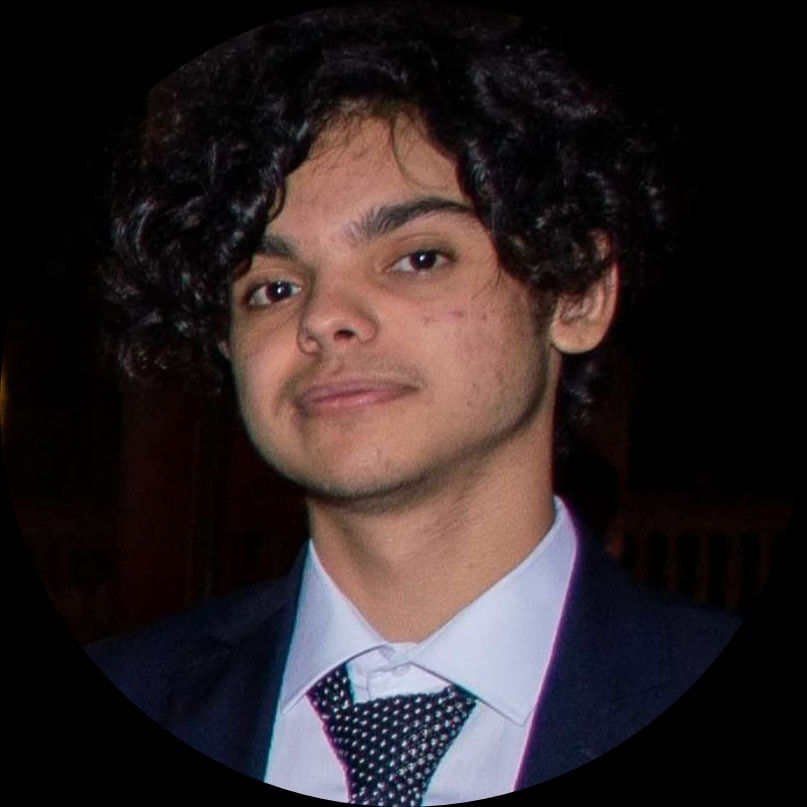
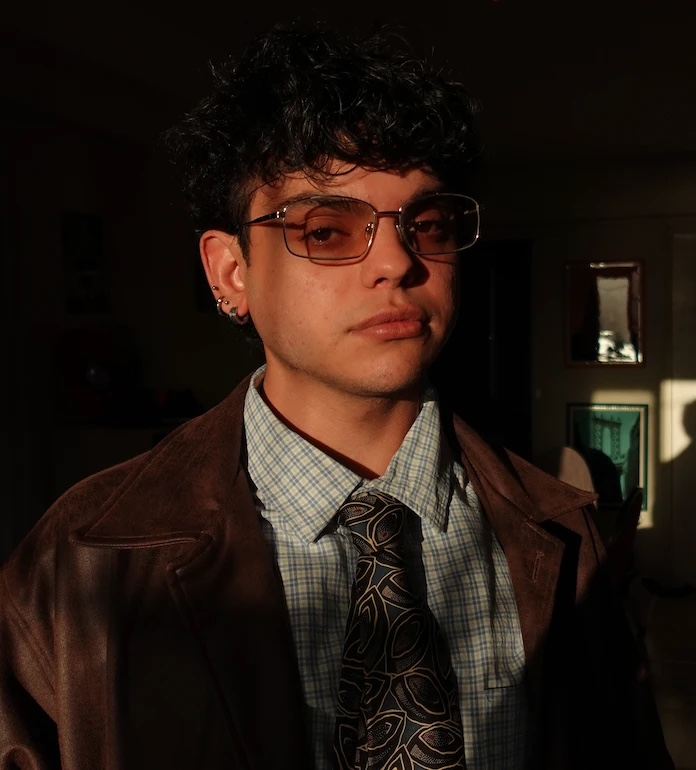
CV: foto nueva y filtro final de Petróleo

diff --git a/index.html b/index.html
@@ -60,7 +60,7 @@ main { padding:52px 0 0; min-width:0; }
 .idioma a:hover { background:var(--borde); }
 .yo { width:128px; height:128px; border-radius:50%; overflow:hidden; background:var(--tarjeta); margin-bottom:26px; transition:transform .4s cubic-bezier(.2,.8,.2,1); }
 .yo:hover { transform:rotate(-6deg) scale(1.04); }
-.yo img { width:100%; height:100%; object-fit:cover; display:block; }
+.yo img { width:100%; height:100%; object-fit:cover; object-position:50% 28%; display:block; }
 .nombre { font-family:var(--f-nombre); font-weight:var(--f-nombre-peso); text-transform:var(--f-nombre-caja); font-size:29px; line-height:1.08; letter-spacing:-.01em; }
 html[data-tipo="c"] .nombre { font-size:38px; line-height:1; }
 .rol-lat { margin-top:14px; font-size:15px; line-height:1.45; font-weight:500; }
@@ -137,7 +137,7 @@ a.t:hover, .t:hover { transform:translateY(-4px) rotate(-.5deg); box-shadow:0 22
 
 /* Bloque del avatar */
 .avatar { padding:0; background:radial-gradient(120% 90% at 20% 10%, var(--c3) 0%, var(--c5) 60%, var(--barra) 100%); min-height:366px; }
-.avatar .duo-img { position:absolute; inset:0; width:100%; height:100%; object-fit:cover; filter:url(#duo-paleta); transition:transform .8s cubic-bezier(.2,.8,.2,1); }
+.avatar .duo-img { position:absolute; inset:0; width:100%; height:100%; object-fit:cover; object-position:50% 22%; filter:url(#duo-paleta); transition:transform .8s cubic-bezier(.2,.8,.2,1); }
 .avatar:hover .duo-img { transform:scale(1.05); }
 .avatar .slot-3d { position:absolute; inset:0; display:none; }
 html[data-foto="morado"] .avatar .duo-img { filter:url(#duo-morado); } html[data-foto="azul"] .avatar .duo-img { filter:url(#duo-azul); }
@@ -286,8 +286,6 @@ section#sobre { margin-top:0; }
 .paletas .nota { color:#9aa3b2; margin-top:10px; }
 .panel .seg.foto button { display:inline-flex; align-items:center; justify-content:center; gap:5px; flex:1 1 30%; }
 .panel .rango { width:100%; accent-color:var(--verde); }
-.panel .seg.foto b { width:10px; height:10px; border-radius:50%; }
-
 /* Barra móvil */
 .barra-movil { display:none; }
 
@@ -664,7 +662,7 @@ section#sobre { margin-top:0; }
 <div class="paletas" id="paletas">
   <button type="button" id="paletas-abrir" aria-expanded="false"><span class="puntos" id="paleta-puntos"></span><span class="nombre-p">Paleta: <span id="paleta-nombre"></span></span></button>
   <div class="lista">
-    <div class="opciones"><button type="button" data-grupo="paleta" data-val="pet-petroleo" data-nombre="Petróleo" data-duo="0.035 0.624|0.286 0.773|0.341 0.820"><span class="muestra"><b style="background:#e3e4c8"></b><b style="background:#042a2b"></b><b style="background:#5eb1bf"></b><b style="background:#e9a23b"></b><b style="background:#c7cb85"></b><b style="background:#0f6e8c"></b><b style="background:#042a2b"></b></span>Petróleo</button><button type="button" data-grupo="paleta" data-val="pet-salvia" data-nombre="Petróleo · foto salvia" data-duo="0.016 0.780|0.165 0.796|0.169 0.522"><span class="muestra"><b style="background:#e3e4c8"></b><b style="background:#042a2b"></b><b style="background:#5eb1bf"></b><b style="background:#e9a23b"></b><b style="background:#c7cb85"></b><b style="background:#0f6e8c"></b><b style="background:#042a2b"></b></span>Petróleo · foto salvia</button><button type="button" data-grupo="paleta" data-val="pet-mostaza" data-nombre="Petróleo · foto naranja" data-duo="0.463 0.969|0.314 0.741|0.169 0.537"><span class="muestra"><b style="background:#e3e4c8"></b><b style="background:#042a2b"></b><b style="background:#5eb1bf"></b><b style="background:#e9a23b"></b><b style="background:#c7cb85"></b><b style="background:#0f6e8c"></b><b style="background:#042a2b"></b></span>Petróleo · foto naranja</button><button type="button" data-grupo="paleta" data-val="pet-naranja2" data-nombre="Petróleo · foto naranja intensa" data-duo="0.529 1.000|0.373 0.753|0.118 0.459" data-fuerza="88"><span class="muestra"><b style="background:#e3e4c8"></b><b style="background:#042a2b"></b><b style="background:#5eb1bf"></b><b style="background:#e9a23b"></b><b style="background:#c7cb85"></b><b style="background:#0f6e8c"></b><b style="background:#042a2b"></b></span>Petróleo · foto naranja intensa</button><button type="button" data-grupo="paleta" data-val="pet-celeste" data-nombre="Petróleo · foto celeste" data-duo="0.157 0.651|0.376 0.831|0.400 0.863"><span class="muestra"><b style="background:#e3e4c8"></b><b style="background:#042a2b"></b><b style="background:#5eb1bf"></b><b style="background:#e9a23b"></b><b style="background:#c7cb85"></b><b style="background:#0f6e8c"></b><b style="background:#042a2b"></b></span>Petróleo · foto celeste</button><button type="button" data-grupo="paleta" data-val="cal-durazno" data-nombre="Cálida petróleo" data-duo="0.118 1.000|0.165 0.788|0.353 0.659"><span class="muestra"><b style="background:#d9e0de"></b><b style="background:#0e1014"></b><b style="background:#0f5257"></b><b style="background:#f39a33"></b><b style="background:#f4d3f4"></b><b style="background:#3657f0"></b><b style="background:#7454c9"></b></span>Cálida petróleo</button><button type="button" data-grupo="paleta" data-val="cal-petroleo" data-nombre="Cálida · foto petróleo" data-duo="0.055 0.624|0.180 0.729|0.196 0.737"><span class="muestra"><b style="background:#d9e0de"></b><b style="background:#0e1014"></b><b style="background:#0f5257"></b><b style="background:#f39a33"></b><b style="background:#f4d3f4"></b><b style="background:#3657f0"></b><b style="background:#7454c9"></b></span>Cálida · foto petróleo</button><button type="button" data-grupo="paleta" data-val="cal-naranja" data-nombre="Cálida · foto naranja" data-duo="0.416 0.973|0.278 0.780|0.125 0.561"><span class="muestra"><b style="background:#d9e0de"></b><b style="background:#0e1014"></b><b style="background:#0f5257"></b><b style="background:#f39a33"></b><b style="background:#f4d3f4"></b><b style="background:#3657f0"></b><b style="background:#7454c9"></b></span>Cálida · foto naranja</button><button type="button" data-grupo="paleta" data-val="cal-rosa" data-nombre="Cálida · foto rosa" data-duo="0.227 0.957|0.165 0.827|0.431 0.957"><span class="muestra"><b style="background:#d9e0de"></b><b style="background:#0e1014"></b><b style="background:#0f5257"></b><b style="background:#f39a33"></b><b style="background:#f4d3f4"></b><b style="background:#3657f0"></b><b style="background:#7454c9"></b></span>Cálida · foto rosa</button><button type="button" data-grupo="paleta" data-val="cal-azul" data-nombre="Cálida · foto azul" data-duo="0.118 0.565|0.173 0.639|0.424 0.969"><span class="muestra"><b style="background:#d9e0de"></b><b style="background:#0e1014"></b><b style="background:#0f5257"></b><b style="background:#f39a33"></b><b style="background:#f4d3f4"></b><b style="background:#3657f0"></b><b style="background:#7454c9"></b></span>Cálida · foto azul</button></div>
+    <div class="opciones"><button type="button" data-grupo="paleta" data-val="pet-petroleo" data-nombre="Petróleo" data-duo="0.741 1.000|0.000 0.702|0.024 0.710" data-fuerza="35"><span class="muestra"><b style="background:#e3e4c8"></b><b style="background:#042a2b"></b><b style="background:#5eb1bf"></b><b style="background:#e9a23b"></b><b style="background:#c7cb85"></b><b style="background:#0f6e8c"></b><b style="background:#042a2b"></b></span>Petróleo</button><button type="button" data-grupo="paleta" data-val="pet-salvia" data-nombre="Petróleo · foto salvia" data-duo="0.016 0.780|0.165 0.796|0.169 0.522"><span class="muestra"><b style="background:#e3e4c8"></b><b style="background:#042a2b"></b><b style="background:#5eb1bf"></b><b style="background:#e9a23b"></b><b style="background:#c7cb85"></b><b style="background:#0f6e8c"></b><b style="background:#042a2b"></b></span>Petróleo · foto salvia</button><button type="button" data-grupo="paleta" data-val="pet-mostaza" data-nombre="Petróleo · foto naranja" data-duo="0.463 0.969|0.314 0.741|0.169 0.537"><span class="muestra"><b style="background:#e3e4c8"></b><b style="background:#042a2b"></b><b style="background:#5eb1bf"></b><b style="background:#e9a23b"></b><b style="background:#c7cb85"></b><b style="background:#0f6e8c"></b><b style="background:#042a2b"></b></span>Petróleo · foto naranja</button><button type="button" data-grupo="paleta" data-val="pet-naranja2" data-nombre="Petróleo · foto naranja intensa" data-duo="0.529 1.000|0.373 0.753|0.118 0.459" data-fuerza="88"><span class="muestra"><b style="background:#e3e4c8"></b><b style="background:#042a2b"></b><b style="background:#5eb1bf"></b><b style="background:#e9a23b"></b><b style="background:#c7cb85"></b><b style="background:#0f6e8c"></b><b style="background:#042a2b"></b></span>Petróleo · foto naranja intensa</button><button type="button" data-grupo="paleta" data-val="pet-celeste" data-nombre="Petróleo · foto celeste" data-duo="0.157 0.651|0.376 0.831|0.400 0.863"><span class="muestra"><b style="background:#e3e4c8"></b><b style="background:#042a2b"></b><b style="background:#5eb1bf"></b><b style="background:#e9a23b"></b><b style="background:#c7cb85"></b><b style="background:#0f6e8c"></b><b style="background:#042a2b"></b></span>Petróleo · foto celeste</button><button type="button" data-grupo="paleta" data-val="cal-durazno" data-nombre="Cálida petróleo" data-duo="0.118 1.000|0.165 0.788|0.353 0.659"><span class="muestra"><b style="background:#d9e0de"></b><b style="background:#0e1014"></b><b style="background:#0f5257"></b><b style="background:#f39a33"></b><b style="background:#f4d3f4"></b><b style="background:#3657f0"></b><b style="background:#7454c9"></b></span>Cálida petróleo</button><button type="button" data-grupo="paleta" data-val="cal-petroleo" data-nombre="Cálida · foto petróleo" data-duo="0.055 0.624|0.180 0.729|0.196 0.737"><span class="muestra"><b style="background:#d9e0de"></b><b style="background:#0e1014"></b><b style="background:#0f5257"></b><b style="background:#f39a33"></b><b style="background:#f4d3f4"></b><b style="background:#3657f0"></b><b style="background:#7454c9"></b></span>Cálida · foto petróleo</button><button type="button" data-grupo="paleta" data-val="cal-naranja" data-nombre="Cálida · foto naranja" data-duo="0.416 0.973|0.278 0.780|0.125 0.561"><span class="muestra"><b style="background:#d9e0de"></b><b style="background:#0e1014"></b><b style="background:#0f5257"></b><b style="background:#f39a33"></b><b style="background:#f4d3f4"></b><b style="background:#3657f0"></b><b style="background:#7454c9"></b></span>Cálida · foto naranja</button><button type="button" data-grupo="paleta" data-val="cal-rosa" data-nombre="Cálida · foto rosa" data-duo="0.227 0.957|0.165 0.827|0.431 0.957"><span class="muestra"><b style="background:#d9e0de"></b><b style="background:#0e1014"></b><b style="background:#0f5257"></b><b style="background:#f39a33"></b><b style="background:#f4d3f4"></b><b style="background:#3657f0"></b><b style="background:#7454c9"></b></span>Cálida · foto rosa</button><button type="button" data-grupo="paleta" data-val="cal-azul" data-nombre="Cálida · foto azul" data-duo="0.118 0.565|0.173 0.639|0.424 0.969"><span class="muestra"><b style="background:#d9e0de"></b><b style="background:#0e1014"></b><b style="background:#0f5257"></b><b style="background:#f39a33"></b><b style="background:#f4d3f4"></b><b style="background:#3657f0"></b><b style="background:#7454c9"></b></span>Cálida · foto azul</button></div>
     
   </div>
 </div>
@@ -685,7 +683,7 @@ section#sobre { margin-top:0; }
   const rango = document.getElementById('intensidad');
   const aplicarIntensidad = () => {
     const b = document.querySelector('[data-grupo="paleta"][data-val="' + raiz.dataset.paleta + '"]');
-    const k = Number((b && b.dataset.fuerza) || raiz.dataset.intensidad) / 100;
+    const k = Number((PUBLICO && b && b.dataset.fuerza) || raiz.dataset.intensidad) / 100;
     document.querySelectorAll('.mezcla').forEach((m) => { m.setAttribute('k2', k); m.setAttribute('k3', 1 - k); });
     if (rango) { rango.value = raiz.dataset.intensidad; document.getElementById('intensidad-v').textContent = raiz.dataset.intensidad; }
   };

diff --git a/en/index.html b/en/index.html
@@ -60,7 +60,7 @@ main { padding:52px 0 0; min-width:0; }
 .idioma a:hover { background:var(--borde); }
 .yo { width:128px; height:128px; border-radius:50%; overflow:hidden; background:var(--tarjeta); margin-bottom:26px; transition:transform .4s cubic-bezier(.2,.8,.2,1); }
 .yo:hover { transform:rotate(-6deg) scale(1.04); }
-.yo img { width:100%; height:100%; object-fit:cover; display:block; }
+.yo img { width:100%; height:100%; object-fit:cover; object-position:50% 28%; display:block; }
 .nombre { font-family:var(--f-nombre); font-weight:var(--f-nombre-peso); text-transform:var(--f-nombre-caja); font-size:29px; line-height:1.08; letter-spacing:-.01em; }
 html[data-tipo="c"] .nombre { font-size:38px; line-height:1; }
 .rol-lat { margin-top:14px; font-size:15px; line-height:1.45; font-weight:500; }
@@ -137,7 +137,7 @@ a.t:hover, .t:hover { transform:translateY(-4px) rotate(-.5deg); box-shadow:0 22
 
 /* Bloque del avatar */
 .avatar { padding:0; background:radial-gradient(120% 90% at 20% 10%, var(--c3) 0%, var(--c5) 60%, var(--barra) 100%); min-height:366px; }
-.avatar .duo-img { position:absolute; inset:0; width:100%; height:100%; object-fit:cover; filter:url(#duo-paleta); transition:transform .8s cubic-bezier(.2,.8,.2,1); }
+.avatar .duo-img { position:absolute; inset:0; width:100%; height:100%; object-fit:cover; object-position:50% 22%; filter:url(#duo-paleta); transition:transform .8s cubic-bezier(.2,.8,.2,1); }
 .avatar:hover .duo-img { transform:scale(1.05); }
 .avatar .slot-3d { position:absolute; inset:0; display:none; }
 html[data-foto="morado"] .avatar .duo-img { filter:url(#duo-morado); } html[data-foto="azul"] .avatar .duo-img { filter:url(#duo-azul); }
@@ -286,8 +286,6 @@ section#sobre { margin-top:0; }
 .paletas .nota { color:#9aa3b2; margin-top:10px; }
 .panel .seg.foto button { display:inline-flex; align-items:center; justify-content:center; gap:5px; flex:1 1 30%; }
 .panel .rango { width:100%; accent-color:var(--verde); }
-.panel .seg.foto b { width:10px; height:10px; border-radius:50%; }
-
 /* Barra móvil */
 .barra-movil { display:none; }
 
@@ -664,7 +662,7 @@ section#sobre { margin-top:0; }
 <div class="paletas" id="paletas">
   <button type="button" id="paletas-abrir" aria-expanded="false"><span class="puntos" id="paleta-puntos"></span><span class="nombre-p">Palette: <span id="paleta-nombre"></span></span></button>
   <div class="lista">
-    <div class="opciones"><button type="button" data-grupo="paleta" data-val="pet-petroleo" data-nombre="Petrol" data-duo="0.035 0.624|0.286 0.773|0.341 0.820"><span class="muestra"><b style="background:#e3e4c8"></b><b style="background:#042a2b"></b><b style="background:#5eb1bf"></b><b style="background:#e9a23b"></b><b style="background:#c7cb85"></b><b style="background:#0f6e8c"></b><b style="background:#042a2b"></b></span>Petrol</button><button type="button" data-grupo="paleta" data-val="pet-salvia" data-nombre="Petrol · sage photo" data-duo="0.016 0.780|0.165 0.796|0.169 0.522"><span class="muestra"><b style="background:#e3e4c8"></b><b style="background:#042a2b"></b><b style="background:#5eb1bf"></b><b style="background:#e9a23b"></b><b style="background:#c7cb85"></b><b style="background:#0f6e8c"></b><b style="background:#042a2b"></b></span>Petrol · sage photo</button><button type="button" data-grupo="paleta" data-val="pet-mostaza" data-nombre="Petrol · orange photo" data-duo="0.463 0.969|0.314 0.741|0.169 0.537"><span class="muestra"><b style="background:#e3e4c8"></b><b style="background:#042a2b"></b><b style="background:#5eb1bf"></b><b style="background:#e9a23b"></b><b style="background:#c7cb85"></b><b style="background:#0f6e8c"></b><b style="background:#042a2b"></b></span>Petrol · orange photo</button><button type="button" data-grupo="paleta" data-val="pet-naranja2" data-nombre="Petrol · deep orange photo" data-duo="0.529 1.000|0.373 0.753|0.118 0.459" data-fuerza="88"><span class="muestra"><b style="background:#e3e4c8"></b><b style="background:#042a2b"></b><b style="background:#5eb1bf"></b><b style="background:#e9a23b"></b><b style="background:#c7cb85"></b><b style="background:#0f6e8c"></b><b style="background:#042a2b"></b></span>Petrol · deep orange photo</button><button type="button" data-grupo="paleta" data-val="pet-celeste" data-nombre="Petrol · sky photo" data-duo="0.157 0.651|0.376 0.831|0.400 0.863"><span class="muestra"><b style="background:#e3e4c8"></b><b style="background:#042a2b"></b><b style="background:#5eb1bf"></b><b style="background:#e9a23b"></b><b style="background:#c7cb85"></b><b style="background:#0f6e8c"></b><b style="background:#042a2b"></b></span>Petrol · sky photo</button><button type="button" data-grupo="paleta" data-val="cal-durazno" data-nombre="Warm petrol" data-duo="0.118 1.000|0.165 0.788|0.353 0.659"><span class="muestra"><b style="background:#d9e0de"></b><b style="background:#0e1014"></b><b style="background:#0f5257"></b><b style="background:#f39a33"></b><b style="background:#f4d3f4"></b><b style="background:#3657f0"></b><b style="background:#7454c9"></b></span>Warm petrol</button><button type="button" data-grupo="paleta" data-val="cal-petroleo" data-nombre="Warm · petrol photo" data-duo="0.055 0.624|0.180 0.729|0.196 0.737"><span class="muestra"><b style="background:#d9e0de"></b><b style="background:#0e1014"></b><b style="background:#0f5257"></b><b style="background:#f39a33"></b><b style="background:#f4d3f4"></b><b style="background:#3657f0"></b><b style="background:#7454c9"></b></span>Warm · petrol photo</button><button type="button" data-grupo="paleta" data-val="cal-naranja" data-nombre="Warm · orange photo" data-duo="0.416 0.973|0.278 0.780|0.125 0.561"><span class="muestra"><b style="background:#d9e0de"></b><b style="background:#0e1014"></b><b style="background:#0f5257"></b><b style="background:#f39a33"></b><b style="background:#f4d3f4"></b><b style="background:#3657f0"></b><b style="background:#7454c9"></b></span>Warm · orange photo</button><button type="button" data-grupo="paleta" data-val="cal-rosa" data-nombre="Warm · pink photo" data-duo="0.227 0.957|0.165 0.827|0.431 0.957"><span class="muestra"><b style="background:#d9e0de"></b><b style="background:#0e1014"></b><b style="background:#0f5257"></b><b style="background:#f39a33"></b><b style="background:#f4d3f4"></b><b style="background:#3657f0"></b><b style="background:#7454c9"></b></span>Warm · pink photo</button><button type="button" data-grupo="paleta" data-val="cal-azul" data-nombre="Warm · blue photo" data-duo="0.118 0.565|0.173 0.639|0.424 0.969"><span class="muestra"><b style="background:#d9e0de"></b><b style="background:#0e1014"></b><b style="background:#0f5257"></b><b style="background:#f39a33"></b><b style="background:#f4d3f4"></b><b style="background:#3657f0"></b><b style="background:#7454c9"></b></span>Warm · blue photo</button></div>
+    <div class="opciones"><button type="button" data-grupo="paleta" data-val="pet-petroleo" data-nombre="Petrol" data-duo="0.741 1.000|0.000 0.702|0.024 0.710" data-fuerza="35"><span class="muestra"><b style="background:#e3e4c8"></b><b style="background:#042a2b"></b><b style="background:#5eb1bf"></b><b style="background:#e9a23b"></b><b style="background:#c7cb85"></b><b style="background:#0f6e8c"></b><b style="background:#042a2b"></b></span>Petrol</button><button type="button" data-grupo="paleta" data-val="pet-salvia" data-nombre="Petrol · sage photo" data-duo="0.016 0.780|0.165 0.796|0.169 0.522"><span class="muestra"><b style="background:#e3e4c8"></b><b style="background:#042a2b"></b><b style="background:#5eb1bf"></b><b style="background:#e9a23b"></b><b style="background:#c7cb85"></b><b style="background:#0f6e8c"></b><b style="background:#042a2b"></b></span>Petrol · sage photo</button><button type="button" data-grupo="paleta" data-val="pet-mostaza" data-nombre="Petrol · orange photo" data-duo="0.463 0.969|0.314 0.741|0.169 0.537"><span class="muestra"><b style="background:#e3e4c8"></b><b style="background:#042a2b"></b><b style="background:#5eb1bf"></b><b style="background:#e9a23b"></b><b style="background:#c7cb85"></b><b style="background:#0f6e8c"></b><b style="background:#042a2b"></b></span>Petrol · orange photo</button><button type="button" data-grupo="paleta" data-val="pet-naranja2" data-nombre="Petrol · deep orange photo" data-duo="0.529 1.000|0.373 0.753|0.118 0.459" data-fuerza="88"><span class="muestra"><b style="background:#e3e4c8"></b><b style="background:#042a2b"></b><b style="background:#5eb1bf"></b><b style="background:#e9a23b"></b><b style="background:#c7cb85"></b><b style="background:#0f6e8c"></b><b style="background:#042a2b"></b></span>Petrol · deep orange photo</button><button type="button" data-grupo="paleta" data-val="pet-celeste" data-nombre="Petrol · sky photo" data-duo="0.157 0.651|0.376 0.831|0.400 0.863"><span class="muestra"><b style="background:#e3e4c8"></b><b style="background:#042a2b"></b><b style="background:#5eb1bf"></b><b style="background:#e9a23b"></b><b style="background:#c7cb85"></b><b style="background:#0f6e8c"></b><b style="background:#042a2b"></b></span>Petrol · sky photo</button><button type="button" data-grupo="paleta" data-val="cal-durazno" data-nombre="Warm petrol" data-duo="0.118 1.000|0.165 0.788|0.353 0.659"><span class="muestra"><b style="background:#d9e0de"></b><b style="background:#0e1014"></b><b style="background:#0f5257"></b><b style="background:#f39a33"></b><b style="background:#f4d3f4"></b><b style="background:#3657f0"></b><b style="background:#7454c9"></b></span>Warm petrol</button><button type="button" data-grupo="paleta" data-val="cal-petroleo" data-nombre="Warm · petrol photo" data-duo="0.055 0.624|0.180 0.729|0.196 0.737"><span class="muestra"><b style="background:#d9e0de"></b><b style="background:#0e1014"></b><b style="background:#0f5257"></b><b style="background:#f39a33"></b><b style="background:#f4d3f4"></b><b style="background:#3657f0"></b><b style="background:#7454c9"></b></span>Warm · petrol photo</button><button type="button" data-grupo="paleta" data-val="cal-naranja" data-nombre="Warm · orange photo" data-duo="0.416 0.973|0.278 0.780|0.125 0.561"><span class="muestra"><b style="background:#d9e0de"></b><b style="background:#0e1014"></b><b style="background:#0f5257"></b><b style="background:#f39a33"></b><b style="background:#f4d3f4"></b><b style="background:#3657f0"></b><b style="background:#7454c9"></b></span>Warm · orange photo</button><button type="button" data-grupo="paleta" data-val="cal-rosa" data-nombre="Warm · pink photo" data-duo="0.227 0.957|0.165 0.827|0.431 0.957"><span class="muestra"><b style="background:#d9e0de"></b><b style="background:#0e1014"></b><b style="background:#0f5257"></b><b style="background:#f39a33"></b><b style="background:#f4d3f4"></b><b style="background:#3657f0"></b><b style="background:#7454c9"></b></span>Warm · pink photo</button><button type="button" data-grupo="paleta" data-val="cal-azul" data-nombre="Warm · blue photo" data-duo="0.118 0.565|0.173 0.639|0.424 0.969"><span class="muestra"><b style="background:#d9e0de"></b><b style="background:#0e1014"></b><b style="background:#0f5257"></b><b style="background:#f39a33"></b><b style="background:#f4d3f4"></b><b style="background:#3657f0"></b><b style="background:#7454c9"></b></span>Warm · blue photo</button></div>
     
   </div>
 </div>
@@ -685,7 +683,7 @@ section#sobre { margin-top:0; }
   const rango = document.getElementById('intensidad');
   const aplicarIntensidad = () => {
     const b = document.querySelector('[data-grupo="paleta"][data-val="' + raiz.dataset.paleta + '"]');
-    const k = Number((b && b.dataset.fuerza) || raiz.dataset.intensidad) / 100;
+    const k = Number((PUBLICO && b && b.dataset.fuerza) || raiz.dataset.intensidad) / 100;
     document.querySelectorAll('.mezcla').forEach((m) => { m.setAttribute('k2', k); m.setAttribute('k3', 1 - k); });
     if (rango) { rango.value = raiz.dataset.intensidad; document.getElementById('intensidad-v').textContent = raiz.dataset.intensidad; }
   };
